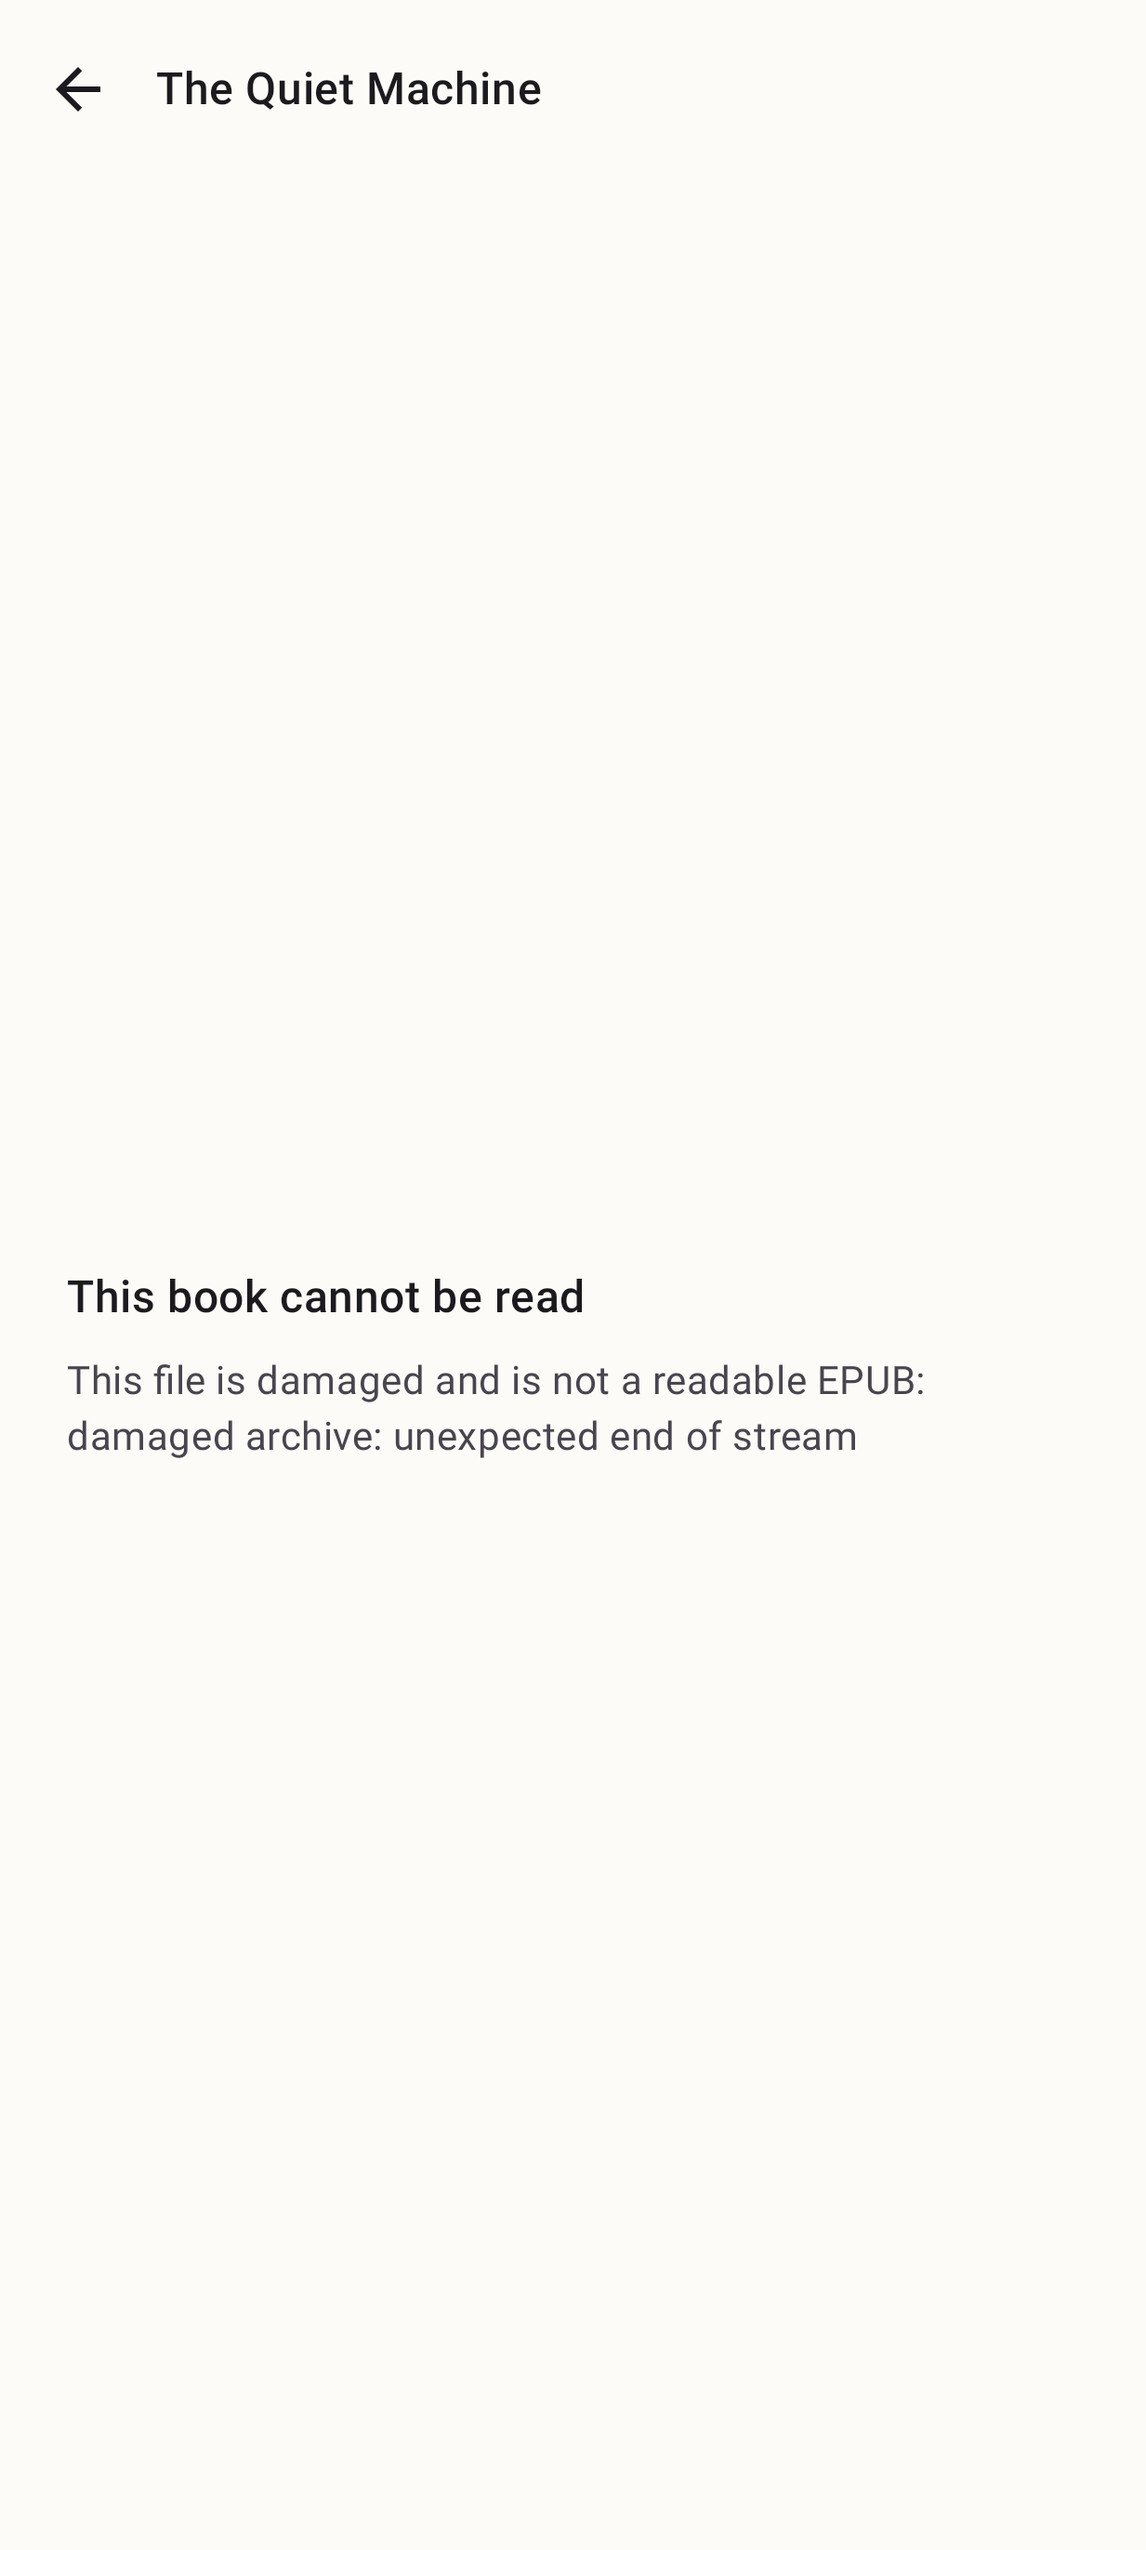
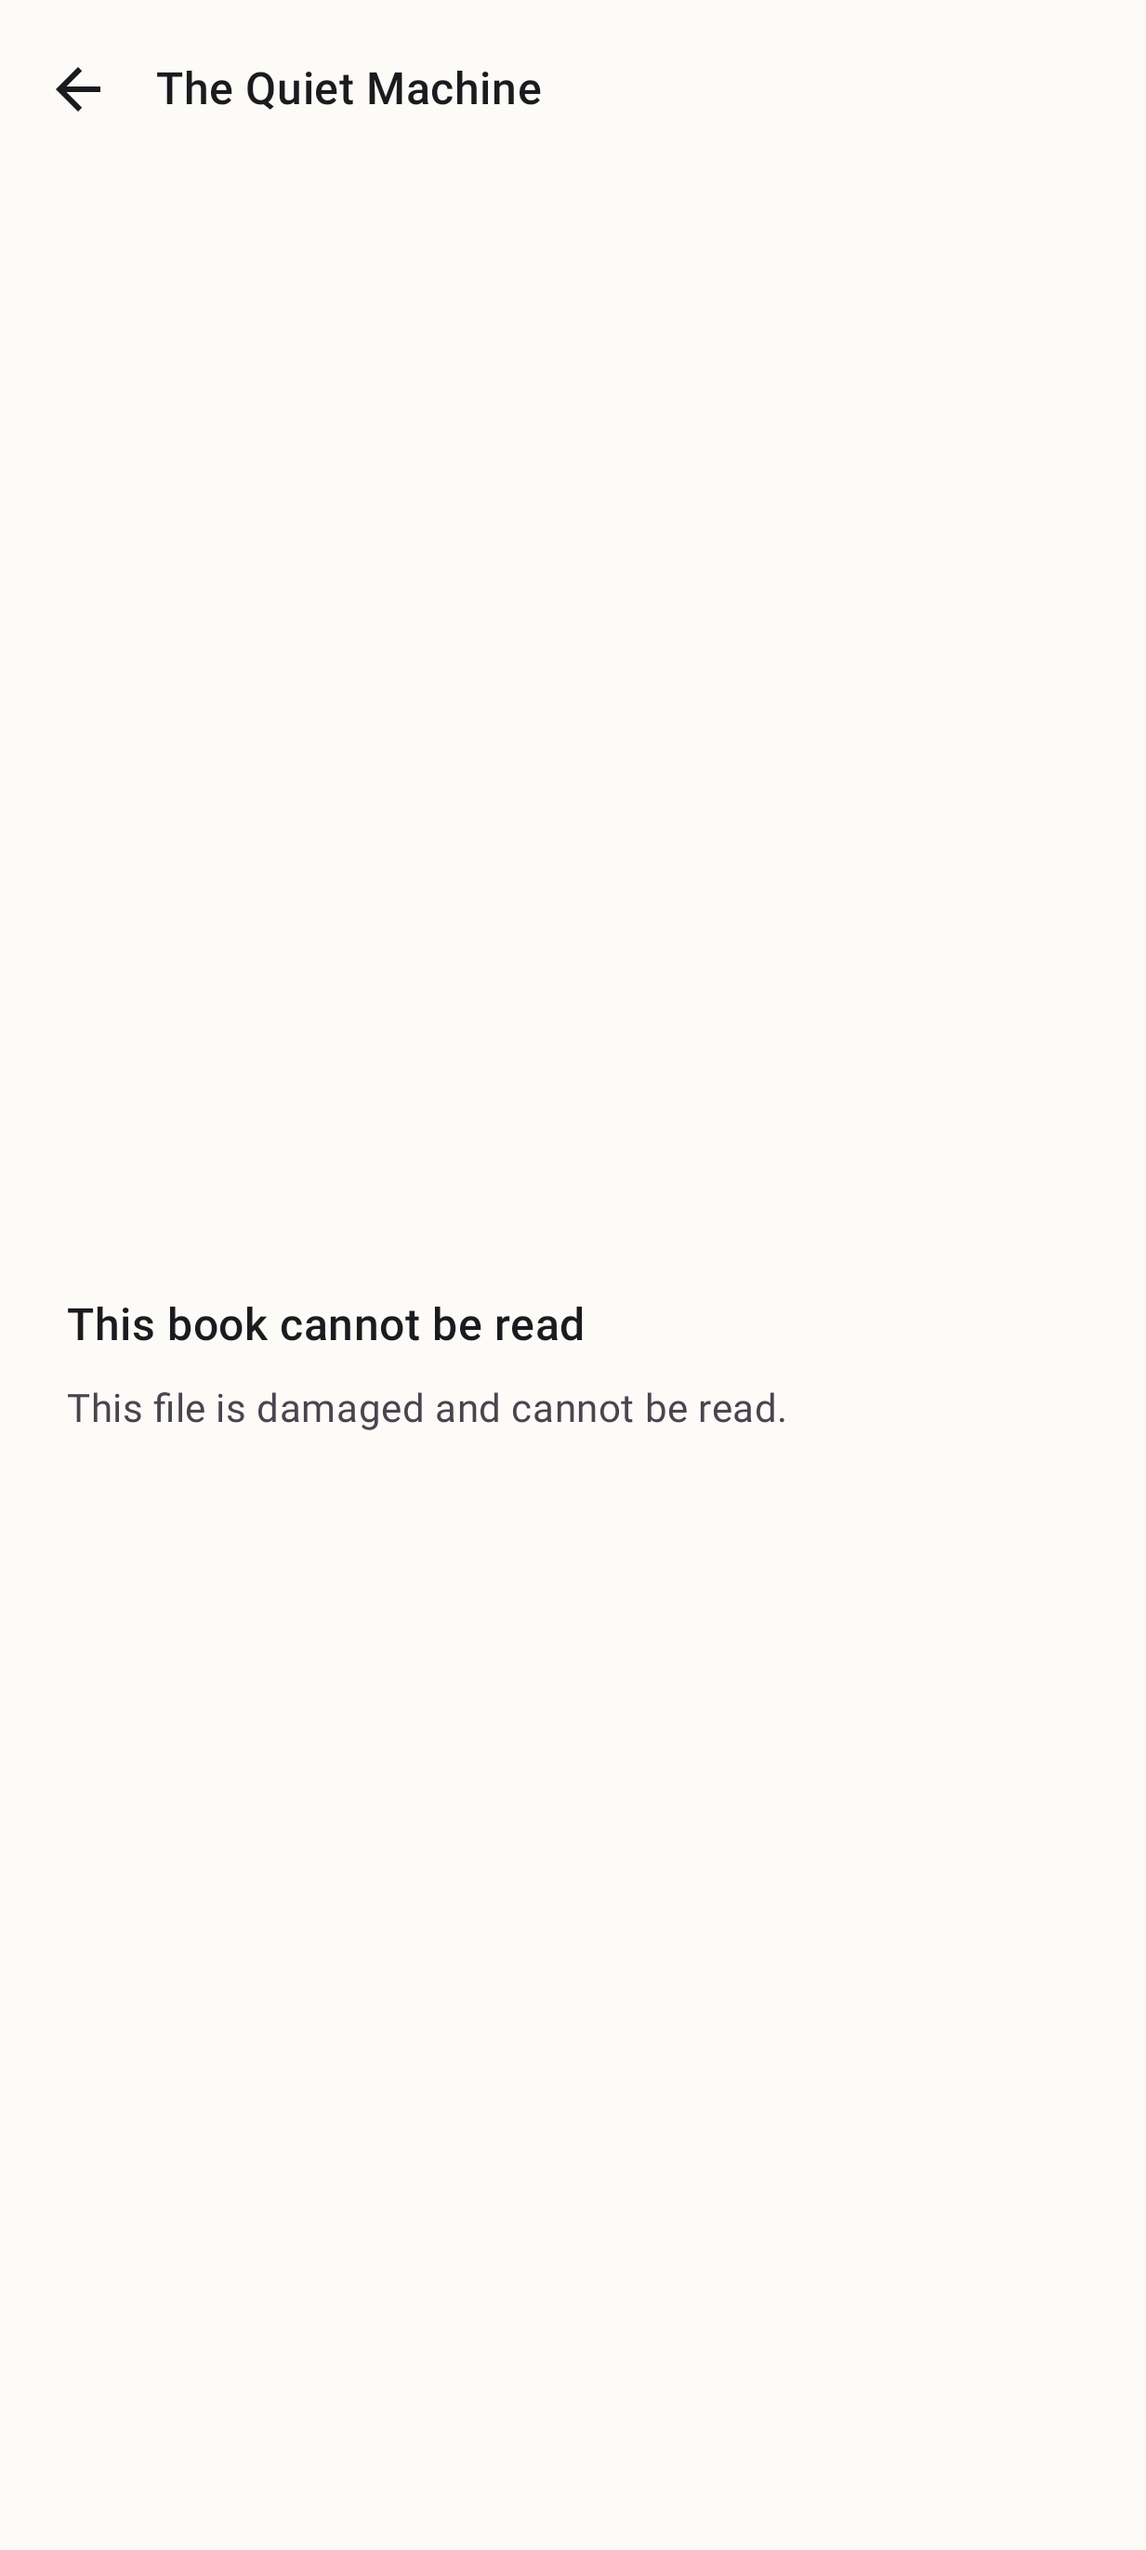
Never let a launch strand the reader on a book that will not open
Reviewer finding on #25. Deleting a directly-picked EPUB leaves the document
still querying as available, so launch routes into it correctly and the *open*
is what fails — and since this leaf made the reader a launch destination, the
first thing the app showed was a dead screen reading "open failed: ENOENT (No
such file or directory)", with a back arrow as its only exit.

Two parts:

- The unavailable state now carries a `ContentFailureReason` instead of a
  sentence, and the screen maps it to plain-language copy in `strings.xml`,
  in the register of the library's own states. LEAF201's technical detail is
  diagnosis, not reader copy, and a typed state leaves nowhere for it to be
  interpolated. `ReaderUnavailableCopyTest` holds every reason to that.
- A book the *launch* chose that turns out not to open now falls back to the
  library as `ResumeBlockedReason.UNREADABLE`, which already renders: the
  banner names the book, and the row offers removal. A book the reader picked
  from the library keeps its explanation on screen, because they chose it and
  the row already said what it is.

The resume notice's self-clearing rule excludes UNREADABLE for the same reason
the bug exists: it is the one case the catalog cannot contradict, since it is
recorded precisely when a book the catalog calls readable did not open.

Changed region(s): [[0.0616, 0.496, 0.7397, 0.589], [0.7705, 0.527, 0.8013, 0.558]]

diff --git a/app/src/test/java/com/cedagova/fastreader/reader/ui/ReaderUnavailableCopyTest.kt b/app/src/test/java/com/cedagova/fastreader/reader/ui/ReaderUnavailableCopyTest.kt
@@ -1,0 +1,76 @@
+package com.cedagova.fastreader.reader.ui
+
+import androidx.test.core.app.ApplicationProvider
+import androidx.test.ext.junit.runners.AndroidJUnit4
+import com.cedagova.fastreader.content.ContentFailureReason
+import org.junit.Assert.assertEquals
+import org.junit.Assert.assertFalse
+import org.junit.Assert.assertTrue
+import org.junit.Test
+import org.junit.runner.RunWith
+import org.robolectric.annotation.Config
+
+/**
+ * The copy a reader sees when a book will not open.
+ *
+ * Since LEAF204 this screen can be the *first* thing the app shows: launch routes
+ * straight into the last-read book, and a file deleted since the last session
+ * fails here. The reason it fails carries a technical detail — `open failed:
+ * ENOENT (No such file or directory)`, `unexpected end of stream` — and none of
+ * that belongs on a reader's screen.
+ *
+ * The structural guarantee is that [ReaderUiState.Unavailable] holds a
+ * [ContentFailureReason] and no free-form text, so there is nowhere for an
+ * exception to be interpolated. These tests hold the copy itself to the same
+ * standard, so a reason added later cannot reintroduce it quietly.
+ */
+@RunWith(AndroidJUnit4::class)
+@Config(sdk = [35])
+class ReaderUnavailableCopyTest {
+
+    private val context = ApplicationProvider.getApplicationContext<android.content.Context>()
+
+    /** Fragments of the technical vocabulary these failures actually produce. */
+    private val technical = listOf(
+        "exception", "failed:", "errno", "enoent", "eacces", "null", "/data/",
+        "stream", "java.", "throw", "%s", "%1\$s",
+    )
+
+    @Test
+    fun `every reason has plain-language copy with nothing technical in it`() {
+        for (reason in ContentFailureReason.entries) {
+            val copy = context.getString(reason.messageRes())
+            assertTrue("$reason has no copy", copy.isNotBlank())
+            assertTrue("$reason should read as a sentence: $copy", copy.trim().endsWith("."))
+            for (fragment in technical) {
+                assertFalse(
+                    "$reason copy must not carry technical text ($fragment): $copy",
+                    copy.lowercase().contains(fragment),
+                )
+            }
+        }
+    }
+
+    @Test
+    fun `each reason says something different`() {
+        val copies = ContentFailureReason.entries.map { context.getString(it.messageRes()) }
+
+        assertEquals(ContentFailureReason.entries.size, copies.toSet().size)
+    }
+
+    /** The state itself has no slot a detail string could be smuggled through. */
+    @Test
+    fun `the unavailable state carries a reason rather than a message`() {
+        val state = ReaderUiState.Unavailable("The Long Signal", ContentFailureReason.UNREADABLE_SOURCE)
+
+        assertEquals(ContentFailureReason.UNREADABLE_SOURCE, state.reason)
+        assertEquals(
+            "the state's only strings are the title and the reason",
+            listOf("bookTitle", "reason"),
+            ReaderUiState.Unavailable::class.java.declaredFields
+                // Compose's compiler adds a `${'$'}stable` field to every class it sees.
+                .filterNot { it.isSynthetic || it.name.startsWith("${'$'}") }
+                .map { it.name },
+        )
+    }
+}

diff --git a/app/src/main/java/com/cedagova/fastreader/MainActivity.kt b/app/src/main/java/com/cedagova/fastreader/MainActivity.kt
@@ -52,6 +52,9 @@ class MainActivity : ComponentActivity() {
 private fun FastReaderApp(library: LibraryGraph) {
     var routed by rememberSaveable { mutableStateOf(false) }
     var openBookId by rememberSaveable { mutableStateOf<String?>(null) }
+    // Whether the reader on screen was chosen by the launch routing rather than
+    // by the reader tapping a row. It decides who owns a book that will not open.
+    var routedIntoReader by rememberSaveable { mutableStateOf(false) }
     var blockedBookId by rememberSaveable { mutableStateOf<String?>(null) }
     var blockedReason by rememberSaveable { mutableStateOf<String?>(null) }
 
@@ -63,7 +66,10 @@ private fun FastReaderApp(library: LibraryGraph) {
         library.repository.load()
         library.repository.refreshLastReadBook()
         when (val destination = launchDestination(library.repository.catalog.value)) {
-            is LaunchDestination.Reader -> openBookId = destination.bookId
+            is LaunchDestination.Reader -> {
+                openBookId = destination.bookId
+                routedIntoReader = true
+            }
             is LaunchDestination.Library -> {
                 blockedBookId = destination.blocked?.bookId
                 blockedReason = destination.blocked?.reason?.name
@@ -80,7 +86,21 @@ private fun FastReaderApp(library: LibraryGraph) {
         openBookId != null -> ReaderRoute(
             graph = library,
             bookId = requireNotNull(openBookId),
-            onBack = { openBookId = null },
+            onBack = { openBookId = null; routedIntoReader = false },
+            // A book the reader chose from the library keeps the reader's own
+            // explanation on screen: they picked it, and its row already said
+            // what it is. A book the *launch* chose is different — nobody asked
+            // for it, and a dead screen with a back arrow is the first thing the
+            // app would show. That case goes back to the library, which can say
+            // which book failed and offer removal or a re-grant (REQ-009).
+            onCannotOpen = { failed ->
+                if (routedIntoReader) {
+                    routedIntoReader = false
+                    openBookId = null
+                    blockedBookId = failed
+                    blockedReason = ResumeBlockedReason.UNREADABLE.name
+                }
+            },
         )
 
         else -> LibraryRoute(

diff --git a/app/src/main/java/com/cedagova/fastreader/reader/ui/ReaderUiState.kt b/app/src/main/java/com/cedagova/fastreader/reader/ui/ReaderUiState.kt
@@ -1,6 +1,9 @@
 package com.cedagova.fastreader.reader.ui
 
+import androidx.annotation.StringRes
+import com.cedagova.fastreader.R
 import com.cedagova.fastreader.content.BookContent
+import com.cedagova.fastreader.content.ContentFailureReason
 import com.cedagova.fastreader.content.SkipMarkerToken
 import com.cedagova.fastreader.content.Token
 import com.cedagova.fastreader.content.WordToken
@@ -35,10 +38,20 @@ sealed interface ReaderUiState {
         val fraction: Float?,
     ) : ReaderUiState
 
-    /** The book could not be turned into a stream; [message] is LEAF201's plain-language reason. */
+    /**
+     * The book could not be turned into a stream.
+     *
+     * The *reason* travels, not a sentence. LEAF201's failures carry a technical
+     * detail — `open failed: ENOENT`, `unexpected end of stream` — that is useful
+     * for diagnosis and is not reader copy, and once launch can route straight
+     * into a book (LEAF204) this screen is the first thing the app shows. Keeping
+     * the state typed means there is nowhere for an interpolated exception to
+     * live: [com.cedagova.fastreader.reader.ui.messageRes] maps each reason to a
+     * plain-language string, in the register of the library's own states.
+     */
     data class Unavailable(
         override val bookTitle: String,
-        val message: String,
+        val reason: ContentFailureReason,
     ) : ReaderUiState
 
     /** The reader proper. */
@@ -85,6 +98,15 @@ sealed interface ReaderUiState {
         /** In-book navigation is offered while stopped (REQ-014), never mid-stream. */
         val canNavigate: Boolean get() = isStopped
     }
+}
+
+/** Plain-language copy for a book that could not be opened. One string per reason, no detail. */
+@StringRes
+fun ContentFailureReason.messageRes(): Int = when (this) {
+    ContentFailureReason.UNREADABLE_SOURCE -> R.string.reader_unavailable_source
+    ContentFailureReason.CORRUPT_ARCHIVE -> R.string.reader_unavailable_corrupt
+    ContentFailureReason.INVALID_STRUCTURE -> R.string.reader_unavailable_invalid
+    ContentFailureReason.NO_READABLE_CONTENT -> R.string.reader_unavailable_empty
 }
 
 /** One token as the screen draws it. The presentation slot LEAF301 replaces consumes this. */

diff --git a/app/src/main/java/com/cedagova/fastreader/reader/ReaderViewModel.kt b/app/src/main/java/com/cedagova/fastreader/reader/ReaderViewModel.kt
@@ -3,7 +3,6 @@ package com.cedagova.fastreader.reader
 import androidx.lifecycle.ViewModel
 import androidx.lifecycle.viewModelScope
 import com.cedagova.fastreader.content.BookContentResult
-import com.cedagova.fastreader.content.ContentFailureReason
 import com.cedagova.fastreader.content.EpubContentPipeline
 import com.cedagova.fastreader.epub.EpubByteSource
 import com.cedagova.fastreader.reader.ui.ReaderBookView
@@ -121,7 +120,7 @@ class ReaderViewModel(
         }
         when (result) {
             is BookContentResult.Failed ->
-                _state.value = ReaderUiState.Unavailable(title, result.message())
+                _state.value = ReaderUiState.Unavailable(title, result.reason)
 
             is BookContentResult.Parsed -> {
                 val content = result.content
@@ -208,19 +207,5 @@ class ReaderViewModel(
         val book = view ?: return
         val current = session ?: return
         _state.value = book.present(current, persistenceFailure)
-    }
-
-    private fun BookContentResult.Failed.message(): String = when (reason) {
-        ContentFailureReason.UNREADABLE_SOURCE ->
-            "The file could not be read: $detail"
-
-        ContentFailureReason.CORRUPT_ARCHIVE ->
-            "This file is damaged and is not a readable EPUB: $detail"
-
-        ContentFailureReason.INVALID_STRUCTURE ->
-            "This file is not a usable EPUB: $detail"
-
-        ContentFailureReason.NO_READABLE_CONTENT ->
-            "There is no text to read in this book: $detail"
     }
 }

diff --git a/app/src/test/java/com/cedagova/fastreader/library/ui/LibraryUiStateTest.kt b/app/src/test/java/com/cedagova/fastreader/library/ui/LibraryUiStateTest.kt
@@ -343,6 +343,32 @@ class LibraryUiStateTest {
         assertNull(state.resumeNotice)
     }
 
+    /**
+     * The one reason the catalog cannot answer. A file deleted out from under a
+     * directly-picked book still queries as available, so launch routes into it
+     * and the *open* is what fails. Suppressing the notice on the catalog's word
+     * would leave that reader with a library that looks perfectly fine and no
+     * explanation of why their book did not open.
+     */
+    @Test
+    fun `an unreadable notice survives a catalog that still calls the book readable`() {
+        val catalog = Catalog(
+            books = listOf(LibraryFixtures.readable("ghost", "A Deleted Book")),
+            lastReadBookId = "ghost",
+        )
+
+        val state = buildLibraryUiState(
+            catalog,
+            IngestionState.Idle,
+            query = "",
+            resumeBlocked = ResumeBlocked("ghost", ResumeBlockedReason.UNREADABLE),
+        )
+
+        val notice = requireNotNull(state.resumeNotice)
+        assertEquals("A Deleted Book", notice.title)
+        assertEquals(ResumeBlockedReason.UNREADABLE, notice.reason)
+    }
+
     @Test
     fun `an ordinary launch shows no resume notice`() {
         assertNull(buildLibraryUiState(Catalog(), IngestionState.Idle, query = "").resumeNotice)

diff --git a/app/src/main/java/com/cedagova/fastreader/library/ui/LibraryUiState.kt b/app/src/main/java/com/cedagova/fastreader/library/ui/LibraryUiState.kt
@@ -145,10 +145,14 @@ fun buildLibraryUiState(
         failureMessage = (ingestion as? IngestionState.Failed)?.message,
         resumeNotice = resumeBlocked?.let {
             val book = catalog.book(it.bookId)
-            // Granting access again, or restoring the folder, answers the notice.
-            // Leaving it up would tell a reader who has just fixed the problem
-            // that it is still there.
-            if (book?.status == BookStatus.READABLE) {
+            // Granting access again, or restoring the folder, answers the notice:
+            // leaving it up would tell a reader who has just fixed the problem
+            // that it is still there. UNREADABLE is deliberately excluded, because
+            // it is the one reason the catalog cannot contradict — it is recorded
+            // when a book the catalog calls readable turned out not to open, and
+            // hiding the notice on the catalog's say-so would leave the reader
+            // with no explanation at all.
+            if (book?.status == BookStatus.READABLE && it.reason != ResumeBlockedReason.UNREADABLE) {
                 null
             } else {
                 ResumeNotice(

diff --git a/app/src/test/java/com/cedagova/fastreader/reader/ui/ReaderScreenScreenshotTest.kt b/app/src/test/java/com/cedagova/fastreader/reader/ui/ReaderScreenScreenshotTest.kt
@@ -7,6 +7,7 @@ import androidx.compose.ui.test.junit4.createComposeRule
 import androidx.compose.ui.test.onRoot
 import androidx.compose.ui.unit.Density
 import androidx.test.ext.junit.runners.AndroidJUnit4
+import com.cedagova.fastreader.content.ContentFailureReason
 import com.cedagova.fastreader.reader.ReaderFixtures
 import com.cedagova.fastreader.reader.ReaderSession
 import com.cedagova.fastreader.ui.theme.FastReaderTheme
@@ -49,10 +50,7 @@ class ReaderScreenScreenshotTest {
     fun aBookThatCannotBeReadExplainsWhyInPlainLanguage() {
         capture(
             "reader_unavailable",
-            ReaderUiState.Unavailable(
-                BOOK_TITLE,
-                "This file is damaged and is not a readable EPUB: damaged archive: unexpected end of stream",
-            ),
+            ReaderUiState.Unavailable(BOOK_TITLE, ContentFailureReason.CORRUPT_ARCHIVE),
         )
     }
 

diff --git a/app/src/main/java/com/cedagova/fastreader/reader/ui/ReaderRoute.kt b/app/src/main/java/com/cedagova/fastreader/reader/ui/ReaderRoute.kt
@@ -42,6 +42,12 @@ fun ReaderRoute(
     bookId: String,
     onBack: () -> Unit,
     modifier: Modifier = Modifier,
+    /**
+     * The book turned out not to be openable. Reported, not acted on: whether a
+     * dead reader is the right screen depends on how the reader got here, and
+     * only the caller knows that (LEAF204).
+     */
+    onCannotOpen: (String) -> Unit = {},
 ) {
     val repository = graph.repository
     val reader = viewModel<ReaderViewModel>(
@@ -55,6 +61,9 @@ fun ReaderRoute(
 
     val state by reader.state.collectAsState()
     val playing = (state as? ReaderUiState.Reading)?.mode == ReaderMode.PLAYING
+
+    val unavailable = state as? ReaderUiState.Unavailable
+    LaunchedEffect(unavailable, bookId) { if (unavailable != null) onCannotOpen(bookId) }
 
     KeepScreenOn(playing)
     PauseWhenBackgrounded(reader)

diff --git a/app/src/main/java/com/cedagova/fastreader/reader/ui/ReaderScreen.kt b/app/src/main/java/com/cedagova/fastreader/reader/ui/ReaderScreen.kt
@@ -278,7 +278,7 @@ private fun Unavailable(state: ReaderUiState.Unavailable, modifier: Modifier) {
         )
         Spacer(Modifier.height(8.dp))
         Text(
-            text = state.message,
+            text = stringResource(state.reason.messageRes()),
             style = MaterialTheme.typography.bodyMedium,
             color = MaterialTheme.colorScheme.onSurfaceVariant,
         )
